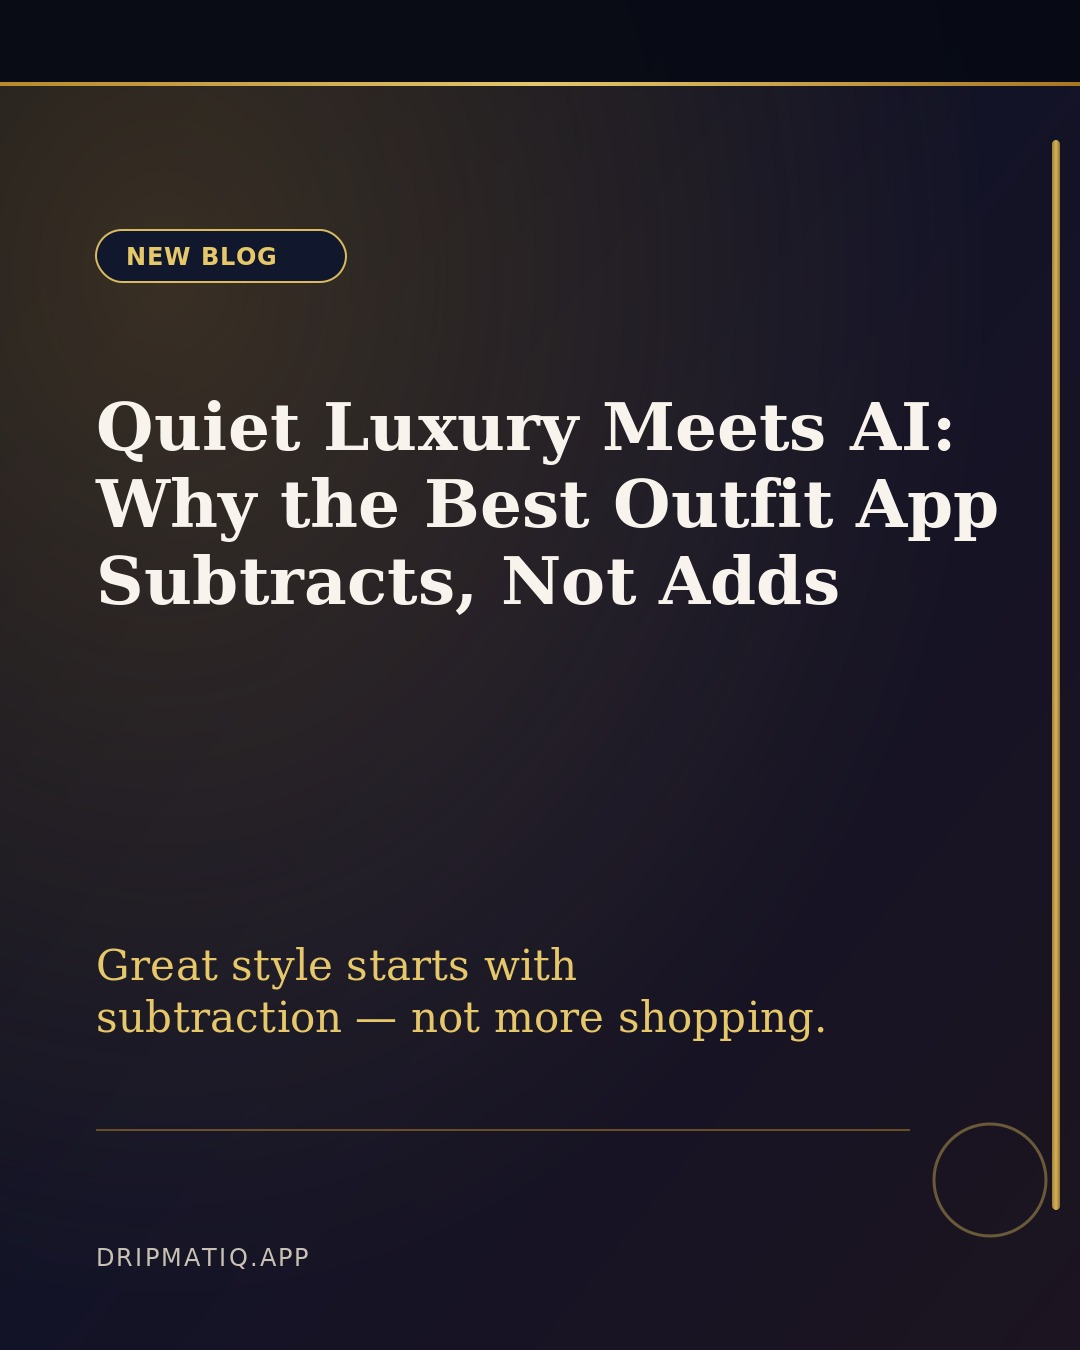
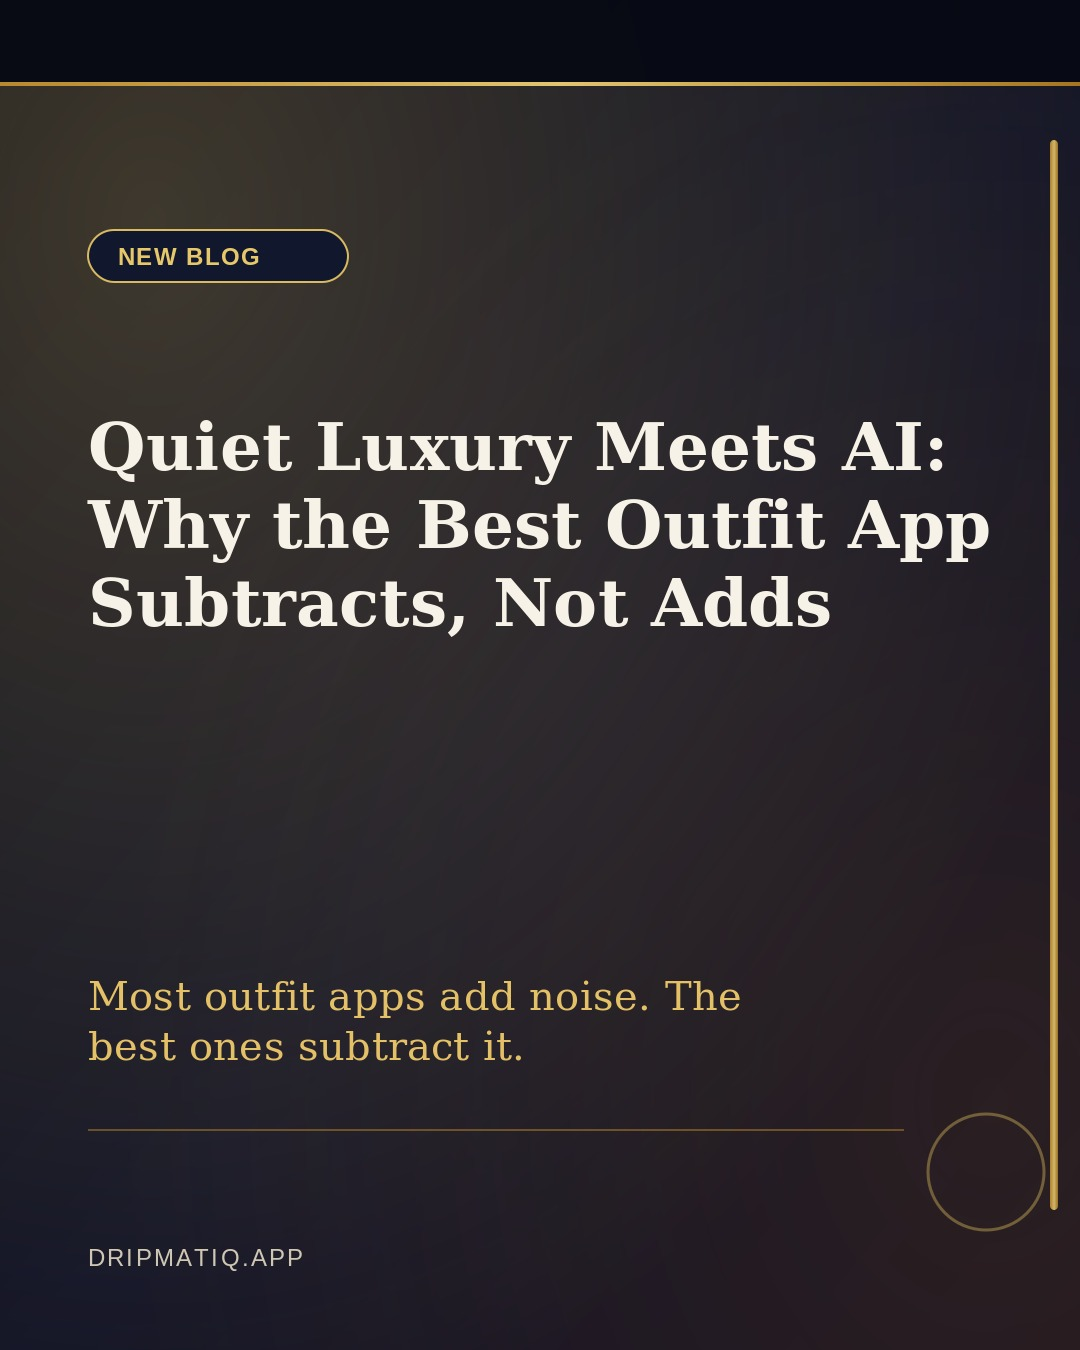
marketing(instagram): pack for quiet-luxury-meets-ai

diff --git a/public/instagram/quiet-luxury-meets-ai/caption.md b/public/instagram/quiet-luxury-meets-ai/caption.md
@@ -1,6 +1,6 @@
-The best outfit app should help you wear less, better.
+Quiet luxury doesn’t start in your closet — it starts in your algorithm.
 
-Most styling apps in 2026 still treat your closet like a shopping funnel. This post breaks down why the real unlock is subtraction: fewer noisy pieces, clearer combinations, and confidence in what already works. If quiet luxury is your vibe, your tech stack should follow the same rule. The strongest style signal isn’t more stuff — it’s better editing.
+If your styling app keeps telling you to buy more, it’s not styling you — it’s selling to you. This post unpacks the “subtract, not add” mindset: remove wardrobe noise, surface the combinations you already own, and only fill real gaps. The payoff is fewer decisions, cleaner outfits, and mornings that feel effortless. If your taste leans minimal, this is the shift worth stealing.
 
 Full read → link in bio (dripmatiq.app/blog/quiet-luxury-meets-ai?utm_source=instagram&utm_medium=social&utm_campaign=quiet-luxury-meets-ai)
 